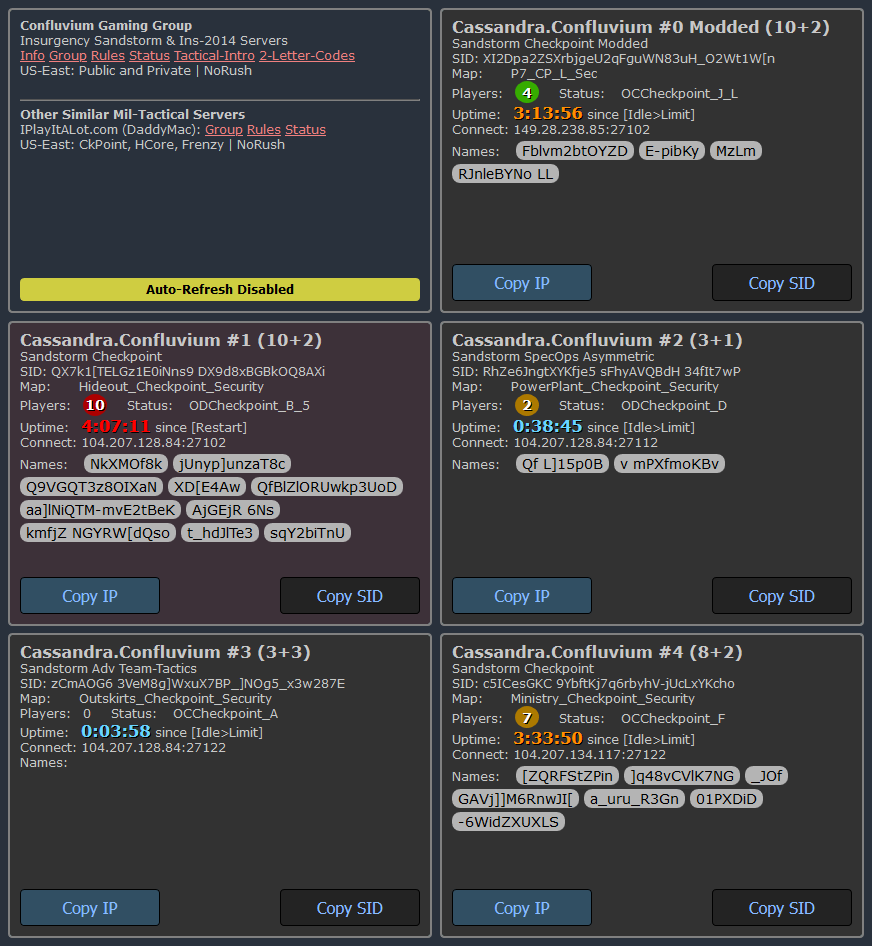
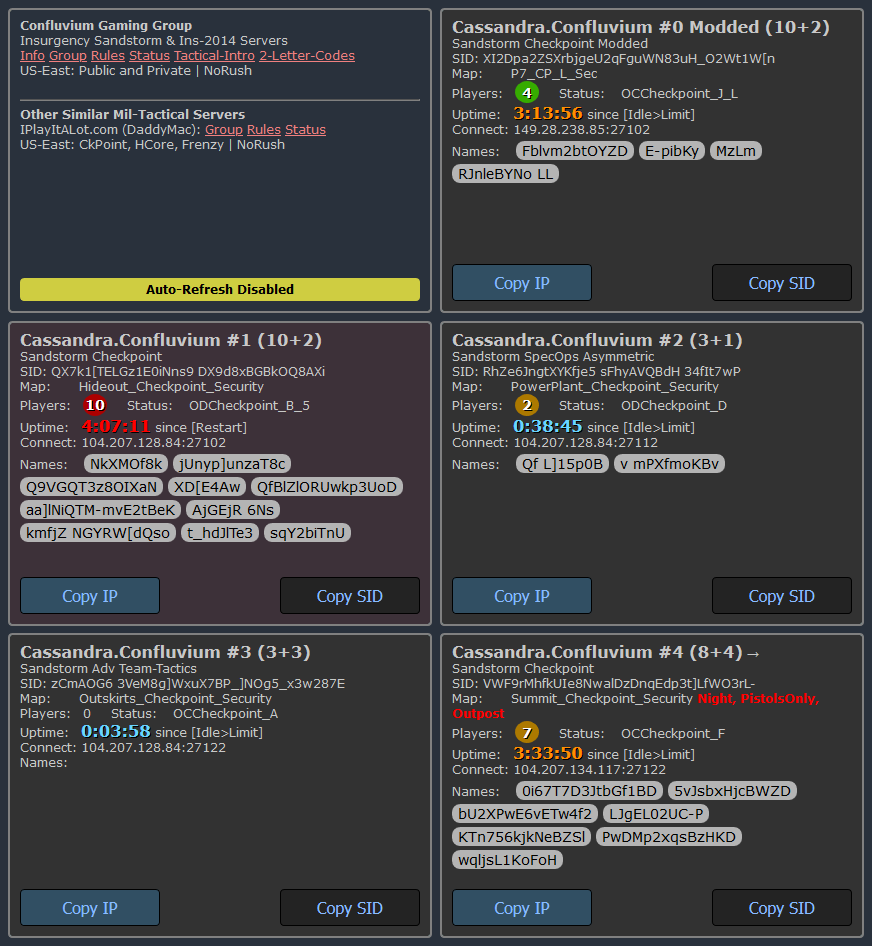
Merge additional server info image. Update readme

Changed region(s): [[0.4954, 0.7051, 0.9289, 0.9197]]

diff --git a/README.md b/README.md
@@ -10,6 +10,7 @@ This script uses the [Tampermonkey](https://addons.mozilla.org/en-US/firefox/add
 * More readable Steam names
 * More readable server restart timers and server occupancy labels
 * Custom font styling
+* View additional server info
 
 ### Default Features
 * A single-click button to copy IP address without the trailing whitespace
@@ -18,12 +19,13 @@ This script uses the [Tampermonkey](https://addons.mozilla.org/en-US/firefox/add
 * Gray, pill-styled names to easily distinguish each player
 * Prevents confusion around names with spaces that may look like a separate player on the next line if it renders at the end of the line
 * More readable server occupancy and uptime labels
+* Because there is certain server information that is not displayed, a separate source is retrieved to show if a server was manually changed by a moderator/admin to a non-checkpoint mode (e.g. Outpost), mutators (shotguns or pistols only), or a night map.
 * Number of players in server will turn orange if there is only one slot available (9 / 10+2) or red if the server is full (10 / 10+2). If the configuration is set to moderator, then the script will account for that, too (orange: 11 / 10+2, red: 12 / 10+2).
 * The server uptime will remain light blue until it turns orange on hour 3. It will remain orange until it turns red on hour 4. Then it will add a black background at 4h45m to complement the red font. Time above 4h45m is considered overtime and will attempt to restart if active players end the round on a success.
 * Customize font size and family for server info or Steam names
 * Page refresh countdown bar + countdown timer
 * Differentiate a favorite server from the regular servers with a separate background color
-* HTML encoding is not set by default and uses windows-1252 which may be the cause of garbled text. Player names with garbled text can be replaced with the correct text/symbols by adding the garbled text and associated text/symbol to the dictionary.
+* (2020-11-08: Deprecated) HTML encoding is not set by default and uses windows-1252 which may be the cause of garbled text. Player names with garbled text can be replaced with the correct text/symbols by adding the garbled text and associated text/symbol to the dictionary.
 * Disable automatic page refresh (Can help you report a player before the auto-refresh removes them from the page)
 * Manually override a server IP with the new one in the event the owner has not updated the web interface (Deprecated)
 * Increase iFrame height to remove scrollbars
